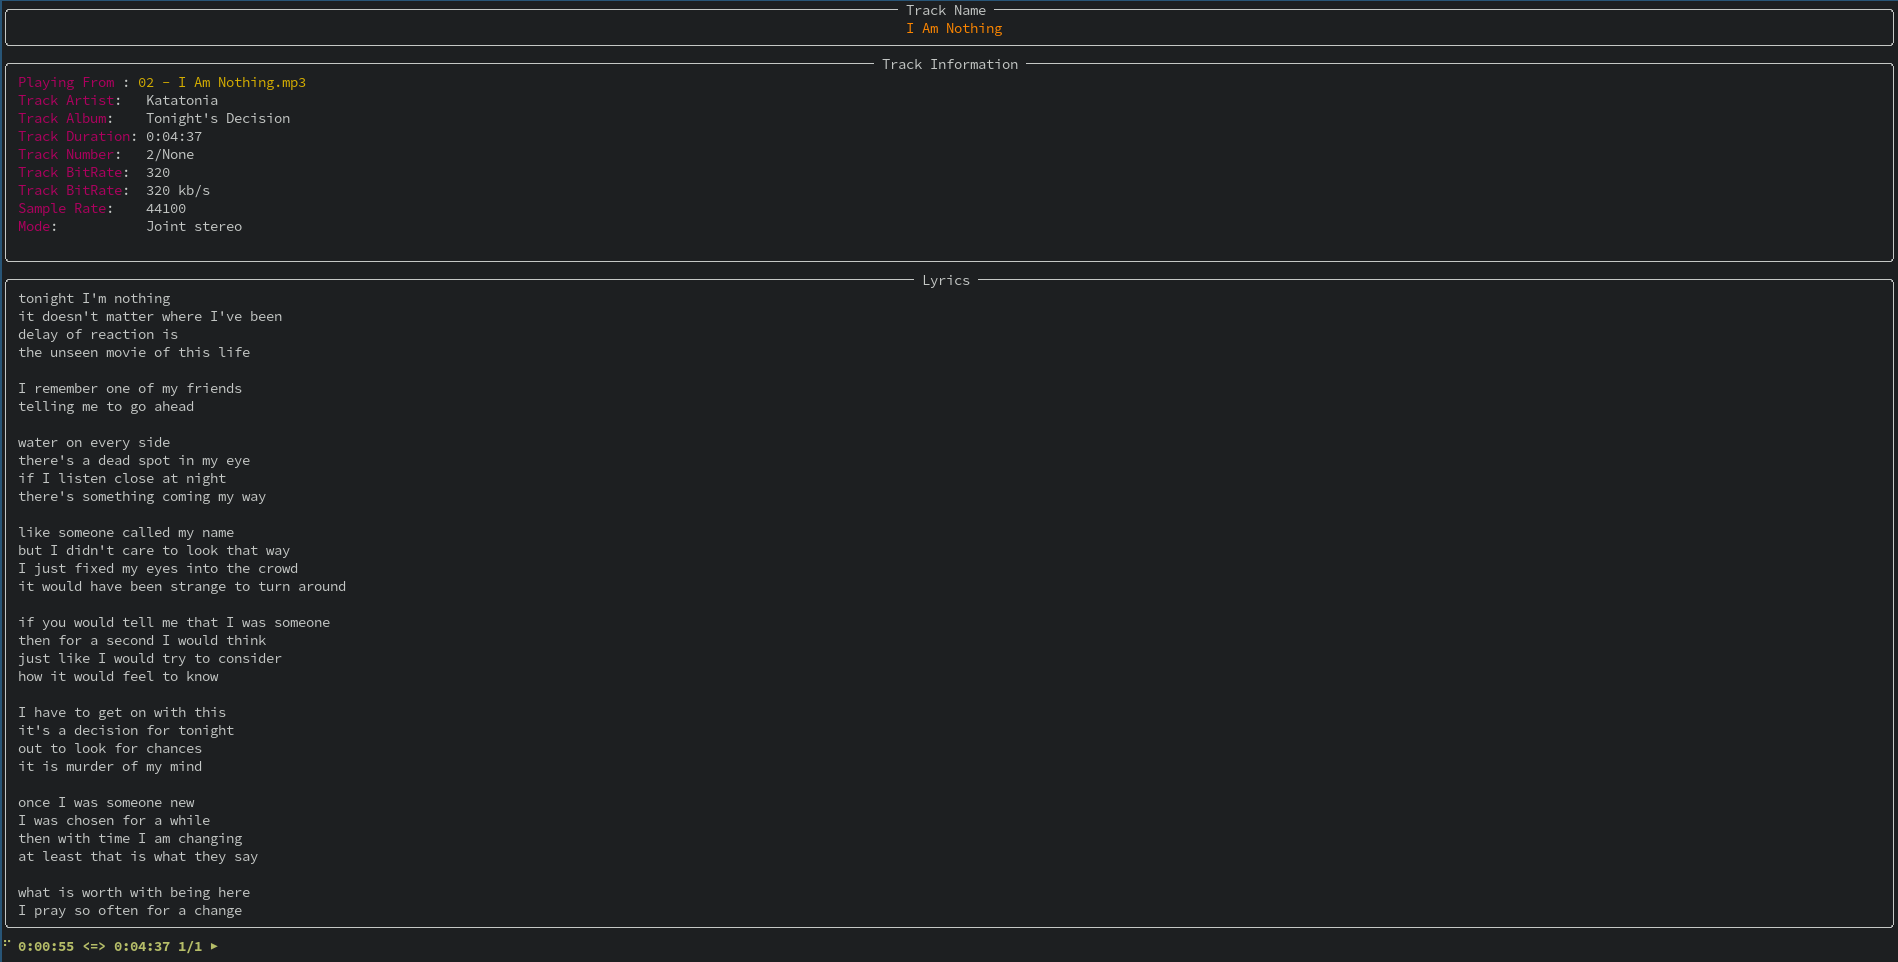
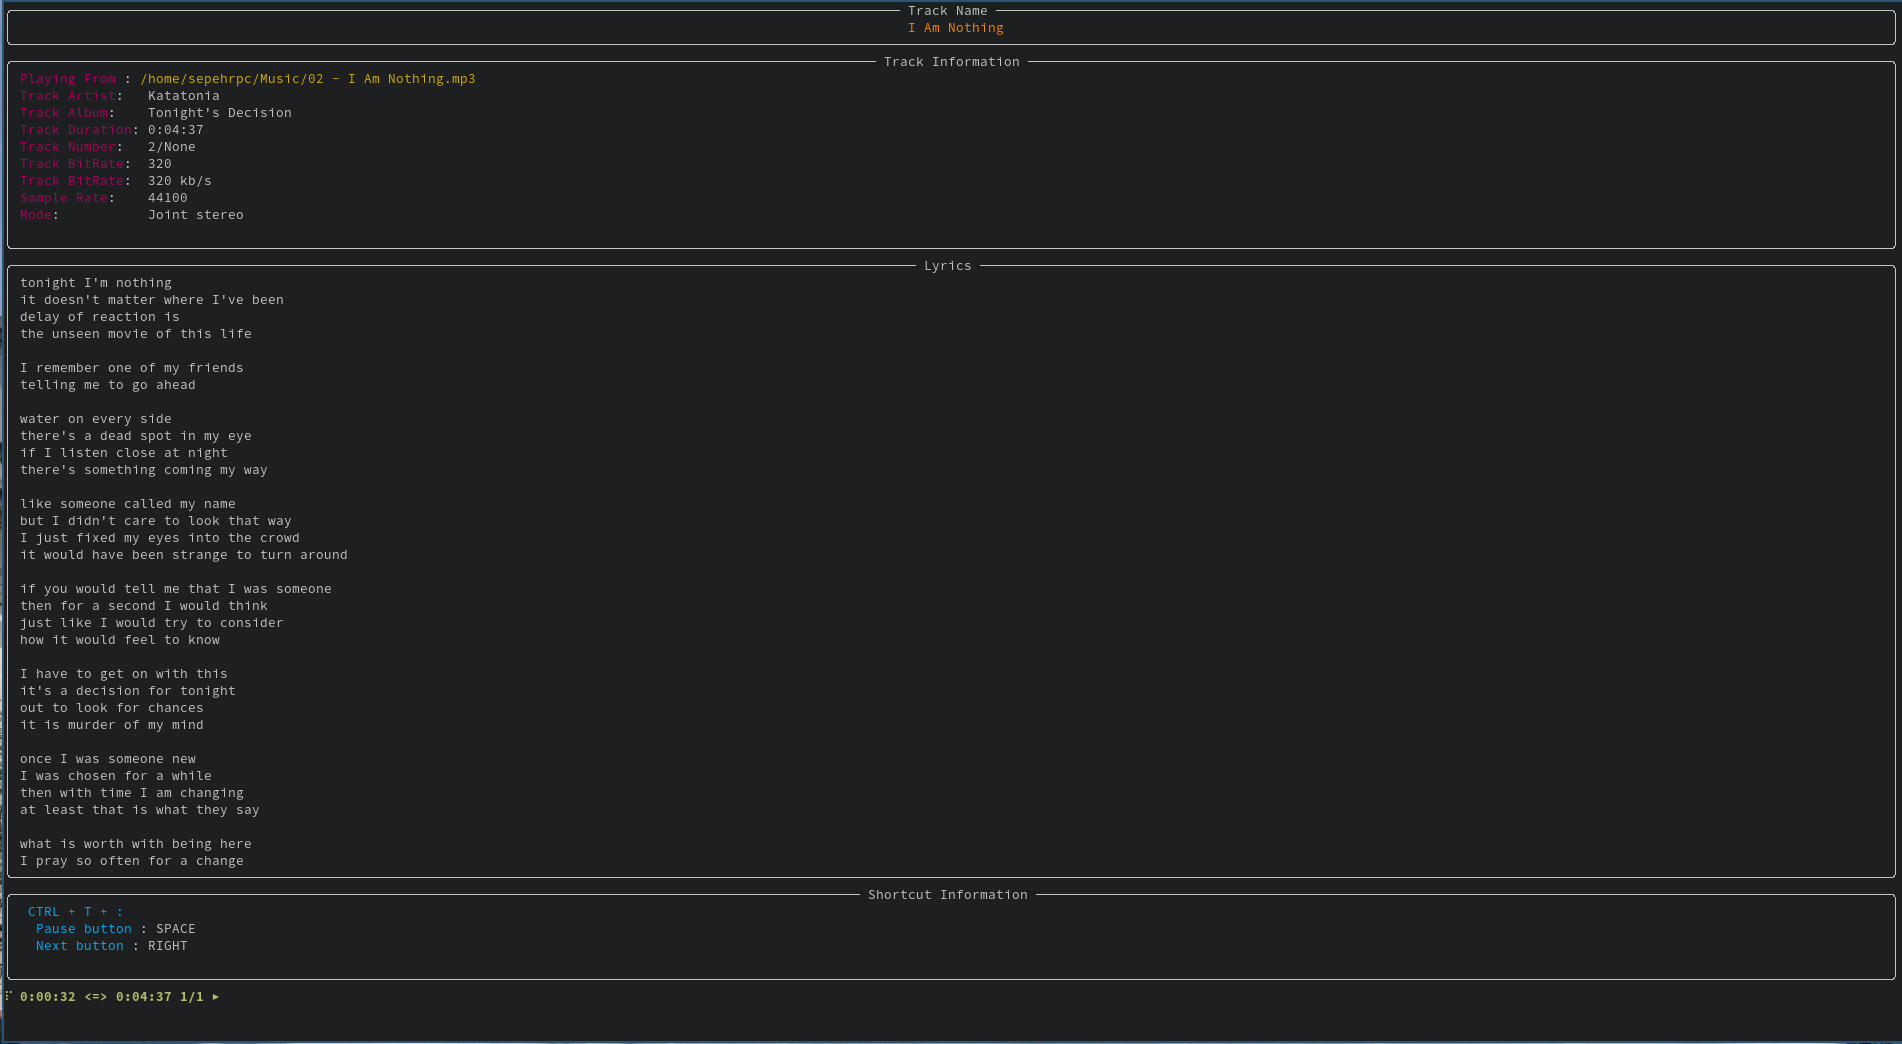
changed info.py and pictures

Changed region(s): [[0.0, 0.0, 1.0, 1.0], [0.4974, 0.842, 0.5285, 0.8732]]

diff --git a/utils/info.py b/utils/info.py
@@ -17,10 +17,9 @@ def show_shortcut_data():
     """
     info = ""
 
-    info += f"[deep_sky_blue1]First key[/deep_sky_blue1] : {str(FIRST_KEY).split('.')[1].upper()}\n"
-    info += f"[deep_sky_blue1]Second key[/deep_sky_blue1] : {SECOND_KEY.upper()}\n"
-    info += f"[deep_sky_blue1]Pause button[/deep_sky_blue1] : {str(PAUSE_BUTTON).split('.')[1].upper()}\n"
-    info += f"[deep_sky_blue1]Next button[/deep_sky_blue1] : {str(NEXT_BUTTON).split('.')[1].upper()}\n"
+    info += f"[deep_sky_blue1] {str(FIRST_KEY).split('.')[1].upper()} + {SECOND_KEY.upper()} + : [/deep_sky_blue1]\n"
+    info += f"  [deep_sky_blue1]Pause button[/deep_sky_blue1] : {str(PAUSE_BUTTON).split('.')[1].upper()}\n"
+    info += f"  [deep_sky_blue1]Next button[/deep_sky_blue1] : {str(NEXT_BUTTON).split('.')[1].upper()}\n"
 
     print(Panel(info, title="Shortcut Information"))
 
